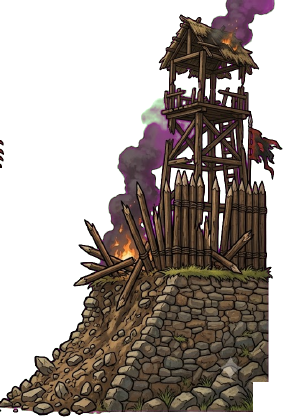
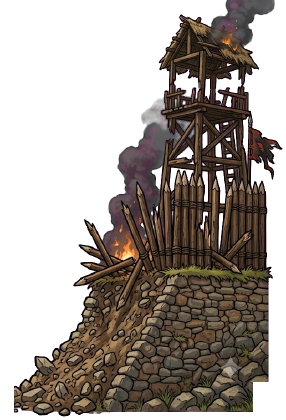
전투: 승패를 결과보다 먼저 보이지 않는다 — 무너진 망루·부서진 목책·진 쪽 도주·이긴 장수 깃발은 「승리·패배」 글자와 같은 때(--rv)에, 그 전엔 멀쩡한 성 (형 10-25: "결과 나오기 전엔 이런 승패를 연출로 힌트줘선 안돼") · 눌러 건너뛰면 바로 / 전장의 어두운 네모(바탕 그라디언트·가장자리 어둠·땅 그늘) 걷음 — 병사는 배경 위에 바로 (형: "쓸데없이 큰 어두운 네모") / 무너진 성의 연기에 묻은 보랏빛·푸른 테 회색으로 · 옆 칸 조각 지움
Claude-Session: https://claude.ai/code/session_01PBv6Hon8gSa94pJHbcgCQm

diff --git a/src/ui/realm/battlefield.ts b/src/ui/realm/battlefield.ts
@@ -902,16 +902,20 @@ export function warHtml(prev: Realm, after: Realm, l: BattleLine, me: string, ar
       let h = ''
       if (cls === defCls && l.field !== true && node !== undefined) {
         const breached = l.pending === undefined && shown >= (l.rounds ?? []).length && (l.outcome === 'win' || l.outcome === 'rout')
+        // 끝 합이 풀리는 중이면 「승리·패배」가 뜨는 때(--rv)에 바꾼다 — 그 전엔 멀쩡한 성 (형 10-25: "결과 나오기 전엔 이런 승패를 연출로 힌트줘선 안돼")
+        const late = breached && play
         if (node.tags.includes('moat')) { for (const oy of [-32, -16, 0, 16, 32]) h += tp('moat', 54, oy, 1.3, true); h += tlab('moat', 58, 42) }
         // 성벽·목책은 판정에 있는 것만 그린다 (season.fortMul — 목책 꼬리표 · 산성) · 그냥 도읍에 울타리를 그리면 없는 수비 덤을 있는 것처럼 보였다
         if (node.tags.includes('palisade') || node.kind === 'fort') {
           const gate = node.kind === 'fort' || node.kind === 'capital'
           h += tlab(node.kind === 'fort' ? 'fort' : 'palisade', 47.5, -47)
           // 지키는 쪽 뒤에 성 — 흙 성벽·목책·망루 (공격이 이기면 부서져 불탄다) · 어느 쪽이 성을 지키는지 한눈에 (형 10-25: "공성하는쪽이랑 수성하는쪽이 어딘지 모르겠고")
-          h += `<img class="wf-wall" data-tk="${node.kind === 'fort' ? 'fort' : 'palisade'}" src="${art}fx/field/wall-${breached ? 'breach' : 'whole'}.png" alt="">`
+          const wall = (b: boolean, cls = ''): string => `<img class="wf-wall${cls}" data-tk="${node.kind === 'fort' ? 'fort' : 'palisade'}" src="${art}fx/field/wall-${b ? 'breach' : 'whole'}.png" alt="">`
+          h += late ? wall(false, ' wf-pre') + wall(true, ' wf-post') : wall(breached)
           // 이어진 울타리 — 토막을 겹쳐 세운다(한가운데 성문)
           const ys = [-36, -27, -18, -9, 0, 9, 18, 27, 36]
-          for (const [j, oy] of ys.entries()) h += tp(breached ? (j % 3 === 1 ? 'palisade' : 'broken') : gate && j === 4 ? 'gate' : 'palisade', 47.5, oy, 1.25)
+          const row = (b: boolean): string => ys.map((oy, j) => tp(b ? (j % 3 === 1 ? 'palisade' : 'broken') : gate && j === 4 ? 'gate' : 'palisade', 47.5, oy, 1.25)).join('')
+          h += late ? `<i class="wf-pre">${row(false)}</i><i class="wf-post">${row(true)}</i>` : row(breached)
         }
       }
       if (cls === defCls && l.via === 'pass') { h += tp('rocks', 30, -36, 0.9); h += tp('rocks', 24, 32, 1.1); h += tlab('pass', 26, 46) }
@@ -997,7 +1001,9 @@ export function warHtml(prev: Realm, after: Realm, l: BattleLine, me: string, ar
     const atkWon = l.outcome === 'win' || l.outcome === 'rout'
     const usWon = weAtk === atkWon
     const endCls = fin ? (usWon ? ' fin win-us' : ' fin win-foe') : ''
-    return `<div class="wfield${play ? ' play' : ''}${enter}${endCls}" style="--hd:${plan?.clash ?? STAGE_S[1] + 0.15}s"><i class="wf-ground"></i>${midTerr}${side(ourI, 'us', ordUs, ourHero, ourF)}${side(foeI, 'foe', ordFoe, foeHero, foeF)}<i class="wf-mid">⚔</i><b class="wf-who us">${roleChip(weAtk)}우리 ${esc(ourName)}</b><b class="wf-who foe">${roleChip(!weAtk)}적 ${esc(foeName)}</b>${hit}${omen}<div class="wf-terr">${terrChips(prev, l, me, fname(foeF)).map((c) => terrChipHtml(art, c, 'wtc')).join('')}</div></div>`
+    // 승패가 드러나는 때 — 「승리·패배」 글자와 같은 때(paintNow 의 endAt). 다시 그린 끝 판(연출 없음)이면 처음부터
+    const rv = fin && play ? roundPlan(last!, weAtk).result + 0.9 : 0
+    return `<div class="wfield${play ? ' play' : ''}${enter}${endCls}" style="--hd:${plan?.clash ?? STAGE_S[1] + 0.15}s;--rv:${rv.toFixed(2)}s"><i class="wf-ground"></i>${midTerr}${side(ourI, 'us', ordUs, ourHero, ourF)}${side(foeI, 'foe', ordFoe, foeHero, foeF)}<i class="wf-mid">⚔</i><b class="wf-who us">${roleChip(weAtk)}우리 ${esc(ourName)}</b><b class="wf-who foe">${roleChip(!weAtk)}적 ${esc(foeName)}</b>${hit}${omen}<div class="wf-terr">${terrChips(prev, l, me, fname(foeF)).map((c) => terrChipHtml(art, c, 'wtc')).join('')}</div></div>`
   }
 
   // 싸움터 배경 (땅마다) · 위 카드는 굴려도 그 자리에 (형: "싸우는로그가 스크롤로 보이더라도 상단에 캐릭터랑 체력바 있는 그 카드는 고정")
@@ -1224,7 +1230,7 @@ export const WAR_CSS = `
 /* 전장 띠 — 병졸 말 */
 /* 전장 — 진을 갖춘 두 군대 (fieldHtml). 적은 통째로 거울 · 아래일수록 크고 앞에 */
 .ap .wfield { position: relative; height: clamp(150px, 22vw, 236px); margin: 6px 2px 2px; border-radius: 10px; overflow: hidden; container-type: inline-size;
-  background: radial-gradient(ellipse 60% 40% at 50% 78%, #6a4e2a55, #0000 70%), linear-gradient(#0000 20%, #1a120a99); }
+  background: none; }
 .ap .wfield .wf-ground { position: absolute; left: 0; right: 0; top: 40%; bottom: 0; background: radial-gradient(ellipse 70% 60% at 50% 70%, #3a2a1666, #0000 75%); }
 .ap .wf2s { position: absolute; inset: 0; } .ap .wf2s.foe { transform: scaleX(-1); }
 /* 땅 조각 — 병사와 같은 자리 셈(원근으로 비스듬히 · 아래일수록 앞) */
@@ -1253,10 +1259,13 @@ export const WAR_CSS = `
 .ap .wf2s .tk.wsp::before { content: ''; position: absolute; left: 18%; right: 18%; bottom: -4%; height: 12%; border-radius: 50%; background: radial-gradient(closest-side, #000b, #0000); z-index: -1; pointer-events: none; }
 .ap .wf2s .tk.wsp.tkd::before { opacity: .4; }
 /* 땅 — 지평선 아래로 짙어져 병사가 떠 보이지 않게 */
-.ap .wfield .wf-ground { top: 30% !important; background: linear-gradient(#0000, #1c140c66 25%, #120c07b0 100%), radial-gradient(ellipse 70% 55% at 50% 72%, #4a361e55, #0000 75%) !important; }
-.ap .wfield::after { content: ''; position: absolute; inset: 0; pointer-events: none; z-index: 90; box-shadow: inset 0 0 40px #000c, inset 0 -18px 30px -10px #000a; border-radius: inherit; }
+.ap .wfield .wf-ground { display: none; }
 /* 지키는 쪽 뒤의 성 (그림은 바깥이 왼쪽 — 우리 쪽이면 뒤집고, 거울인 적 쪽에선 한 번 더 뒤집어 바깥이 공격 쪽을 본다) */
 .ap .wf2s .wf-wall { position: absolute; left: -4%; bottom: 4%; height: 90%; width: auto; transform: scaleX(-1); z-index: 1; pointer-events: none; filter: brightness(.8) saturate(.9) drop-shadow(0 4px 8px #000b); }
+.ap .wfield i.wf-pre, .ap .wfield i.wf-post { position: absolute; inset: 0; pointer-events: none; }
+.ap .wfield .wf-pre { animation: wfpre .5s ease-out var(--rv, 0s) forwards; } @keyframes wfpre { to { opacity: 0; visibility: hidden; } }
+.ap .wfield .wf-post { animation: wfpost .5s ease-out var(--rv, 0s) both; } @keyframes wfpost { from { opacity: 0; } to { opacity: 1; } }
+.ap .wr.fast .wfield { --rv: 0s !important; }
 .ap .wfield .wf-mid-terr.mud .tp { filter: sepia(1) saturate(.65) brightness(.72) hue-rotate(-12deg); opacity: 1; }
 /* 땅 이름표 (tlab) — 소품 곁 · 누구에게 유리한지 색 */
 .ap .wf-tl { position: absolute; left: var(--x); top: calc(60% + var(--oy)); transform: translate(-50%, -50%); z-index: 75; display: flex; flex-direction: column; align-items: center; padding: 1px 6px 2px; border-radius: 7px; background: #120d09d8; border: 1px solid #6a5a48; font-size: clamp(9.5px, 2.5cqw, 12px); font-weight: 800; line-height: 1.15; color: #f6d8a0; white-space: nowrap; pointer-events: none; box-shadow: 0 2px 6px #000a; }
@@ -1327,15 +1336,15 @@ export const WAR_CSS = `
 @keyframes wtkfall { 0% { translate: 3cqw 0; } 100% { translate: 2cqw 0; rotate: -78deg; opacity: .16; filter: grayscale(1); } }
 .ap .wfield .wf-mid { position: absolute; left: 50%; top: 38%; transform: translate(-50%, -50%); font-style: normal; font-size: 22px; color: #f0d090; text-shadow: 0 0 8px #000; opacity: 0; z-index: 80; }
 /* 판의 끝 — 진 쪽은 등을 돌려(거울) 뒤로 달아나며 흩어지고, 이긴 쪽 장수 깃발이 솟는다. 맞부딪힘이 끝난 뒤(--hd + .9s) */
-.ap .wfield.fin.win-us .wf2s.foe .tk.tku, .ap .wfield.fin.win-foe .wf2s.us .tk.tku { animation: wflee 1.6s ease-in calc(var(--hd) + .9s + var(--j, 0) * .07s) forwards !important; }
-.ap .wfield.fin.win-us .wf2s.foe .tk.wsp.tku .spf, .ap .wfield.fin.win-foe .wf2s.us .tk.wsp.tku .spf { animation: spwalk .26s steps(1) calc(var(--hd) + .9s) infinite !important; }
+.ap .wfield.fin.win-us .wf2s.foe .tk.tku, .ap .wfield.fin.win-foe .wf2s.us .tk.tku { animation: wflee 1.6s ease-in calc(var(--rv, 0s) + var(--j, 0) * .07s) forwards !important; }
+.ap .wfield.fin.win-us .wf2s.foe .tk.wsp.tku .spf, .ap .wfield.fin.win-foe .wf2s.us .tk.wsp.tku .spf { animation: spwalk .26s steps(1) var(--rv, 0s) infinite !important; }
 @keyframes wflee { 0% { translate: 0 0; scale: 1; } 12% { scale: -1 1; } 100% { scale: -1 1; translate: -32cqw calc((var(--j, 0) - 2.5) * 2cqw); opacity: 0; } }
-.ap .wfield.fin.win-us .wf2s.us .wgen, .ap .wfield.fin.win-foe .wf2s.foe .wgen { animation: wgenwin .7s cubic-bezier(.3, 1.6, .5, 1) calc(var(--hd) + 1.1s) both; }
+.ap .wfield.fin.win-us .wf2s.us .wgen, .ap .wfield.fin.win-foe .wf2s.foe .wgen { animation: wgenwin .7s cubic-bezier(.3, 1.6, .5, 1) calc(var(--rv, 0s) + .2s) both; }
 @keyframes wgenwin { from { translate: 0 0; scale: 1; } to { translate: 9cqw -2cqw; scale: 1.35; } }
-.ap .wfield.fin.win-us .wf2s.us .wpole, .ap .wfield.fin.win-foe .wf2s.foe .wpole { animation: wpoleup .6s ease-out calc(var(--hd) + 1.2s) both; }
+.ap .wfield.fin.win-us .wf2s.us .wpole, .ap .wfield.fin.win-foe .wf2s.foe .wpole { animation: wpoleup .6s ease-out calc(var(--rv, 0s) + .3s) both; }
 @keyframes wpoleup { from { height: 110%; } to { height: 190%; filter: drop-shadow(0 0 6px #ffd27a); } }
 /* 끝나면 진의 기세 표시(방패벽·화살 활꼴·기병 길·돌격 글자·격려 고리)를 걷는다 — 승패만 남게 */
-.ap .wfield.fin .wq { animation: wqoff .4s ease-out calc(var(--hd) + .9s) forwards !important; } @keyframes wqoff { to { opacity: 0; visibility: hidden; } }
+.ap .wfield.fin .wq { animation: wqoff .4s ease-out var(--rv, 0s) forwards !important; } @keyframes wqoff { to { opacity: 0; visibility: hidden; } }
 .ap .wfield.play .wf-mid { animation: wmid2 .6s ease-out var(--hd) both; } @keyframes wmid2 { 0% { opacity: 0; scale: .4; } 40% { opacity: 1; scale: 1.8; color: #fff; } 100% { opacity: 0; scale: 1.2; } }
 /* 숨 쉬는 병사 — 서 있는 말이 저마다 조금씩 들썩인다 */
 .ap .wf2s .tk.tku { animation: tkidle 1.8s ease-in-out calc(var(--j) * -.31s) infinite alternate; } @keyframes tkidle { to { translate: 0 -2px; } }
